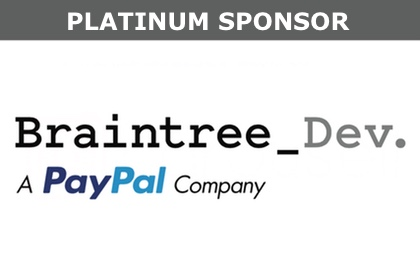
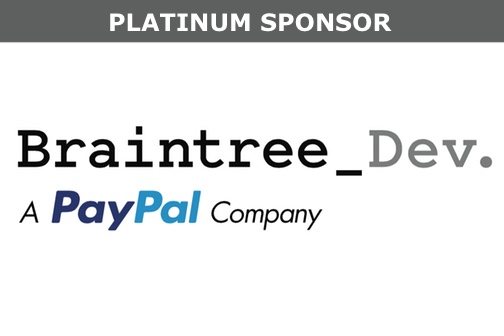
Added Silver Sponsor: Thoughtworks and media partner: e27
Added bigger logos for platinum sponsors.

Changed region(s): [[0.031, 0.3714, 0.9905, 0.7143], [0.0, 0.0286, 1.0, 0.1714]]

diff --git a/pyconsg2/pyconsg2/templates/partials/sponsors.html b/pyconsg2/pyconsg2/templates/partials/sponsors.html
@@ -1,12 +1,18 @@
 {% load sponsorship_tags static thumbnail %}
 <div class="row" style="margin-bottom:2em;">
     <div class="col-md-12 text-center">
-        <h1 class="text-center" style="margin-bottom:1em;">Sponsored by:</h1>
-        <p>We are looking for sponsors! If you can help making PyCon SG a success, please message us at <a href="mailto:conference@pycon.sg">conference@pycon.sg</a></p>
-        <a class="sponsor" href="https://www.braintreepayments.com" target="_blank"><img style="width:210px;" src="{% static "img/sponsor-braintree.jpg" %}" alt="Platinum Sponsor: Braintree - A PayPal Company"></a>
-        <a class="sponsor" href="https://www.neo.com" target="_blank"><img style="width:210px;" src="{% static "img/sponsor-neo.jpg" %}" alt="Platinum Sponsor: Neo"></a>
+        <h1 class="text-center" style="margin-bottom:1em;">Platinum Sponsors:</h1>
+        {% comment %}<p>We are looking for sponsors! If you can help making PyCon SG a success, please message us at <a href="mailto:conference@pycon.sg">conference@pycon.sg</a></p>{% endcomment %}
+        <a class="sponsor" href="https://www.braintreepayments.com" target="_blank"><img style="width:260px;" src="{% static "img/sponsor-braintree.jpg" %}" alt="Platinum Sponsor: Braintree - A PayPal Company"></a>
+        <a class="sponsor" href="https://www.neo.com" target="_blank"><img style="width:260px;" src="{% static "img/sponsor-neo.jpg" %}" alt="Platinum Sponsor: Neo"></a>
+        <hr />
+        <h1 class="text-center" style="margin-bottom:1em;">Silver Sponsors:</h1>
         <a class="sponsor" href="https://bitmazk.com/" target="_blank"><img style="width:210px;" src="{% static "img/sponsor-bitmazk.jpg" %}" alt="Silver Sponsor: Bitmazk"></a>
         <a class="sponsor" href="https://carousell.com/" target="_blank"><img style="width:210px;" src="{% static "img/sponsor-carousell.jpg" %}" alt="Silver Sponsor: Carousell"></a>
+        <a class="sponsor" href="https://thoughtworks.com/" target="_blank"><img style="width:210px;" src="{% static "img/sponsor-thoughtworks.jpg" %}" alt="Silver Sponsor: Thoughtworks"></a>
+        <hr />
+        <h1 class="text-center" style="margin-bottom:1em;">Partners:</h1>
+        <a class="sponsor" href="https://e27.sg/" target="_blank"><img style="width:180px;" src="{% static "img/partner-e27.jpg" %}" alt="Silver Sponsor: Thoughtworks"></a>
         {% comment %}
         <a class="sponsor" href="http://www.heroku.com"><img src="{% static "img/sponsor-heroku.jpg" %}" alt="Platinum Sponsor: Heroku"></a>
         <a class="sponsor" href="http://www.odd-e.com/"><img src="{% static "img/sponsor-odde.jpg" %}" alt="Gold Sponsor: Odd-e"></a>
